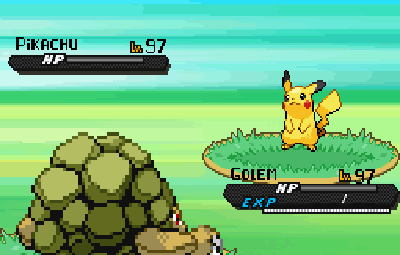
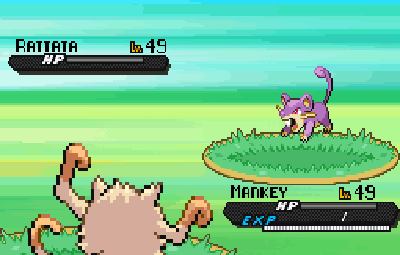
Reposition player bar to make it more readabel

diff --git a/pokemon/pokemon.py b/pokemon/pokemon.py
@@ -73,16 +73,16 @@ class pokemon:
         background.paste(image2, (148, 15), image2)
         background.paste(image1, (-20, int(200 - 96 * 1.75)), image1)
         background.paste(self.enemybar, (5, 23), self.enemybar)
-        background.paste(self.playerbar, (142, 95), self.playerbar)
+        background.paste(self.playerbar, (142, 105), self.playerbar)
         draw = ImageDraw.Draw(background)
         # Enemy pokmeon name
-        draw.text((10, 20), str.capitalize(pokemon2["name"]), font=self.font, fill=(0, 0, 0, 255))
+        draw.text((10, 21), str.capitalize(pokemon2["name"]), font=self.font, fill=(0, 0, 0, 255))
         # Player pokemon name
-        draw.text((147, 93), str.capitalize(pokemon1["name"]), font=self.font, fill=(0, 0, 0, 255))
+        draw.text((147, 103), str.capitalize(pokemon1["name"]), font=self.font, fill=(0, 0, 0, 255))
         # Enemy pokmeon level
         draw.text((93, 22), str(level), font=self.font, fill=(0, 0, 0, 255))
         # Player pokemon level
-        draw.text((226, 95), str(level), font=self.font, fill=(0, 0, 0, 255))
+        draw.text((226, 104), str(level), font=self.font, fill=(0, 0, 0, 255))
         background = background.resize(size=(400, 255))
         background.save("data/pokemon/compost.png", quality=100)
         await self.bot.send_file(context.message.channel, 'data/pokemon/compost.png')

diff --git a/pokemon/f.py b/pokemon/f.py
@@ -22,16 +22,16 @@ background = background.copy()
 background.paste(image2, (148, 15), image2)
 background.paste(image1, (-20, int(200 - 96 * 1.75)), image1)
 background.paste(enemybar, (5, 23), enemybar)
-background.paste(playerbar, (142, 95), playerbar)
+background.paste(playerbar, (142, 105), playerbar)
 draw = ImageDraw.Draw(background)
 #Enemy pokmeon name
-draw.text((10, 20), str.capitalize(pokemon2["name"]), font=font, fill=(0, 0, 0, 255))
+draw.text((10, 21), str.capitalize(pokemon2["name"]), font=font, fill=(0, 0, 0, 255))
 #Player pokemon name
-draw.text((147, 93), str.capitalize(pokemon1["name"]), font=font, fill=(0, 0, 0, 255))
+draw.text((147, 103), str.capitalize(pokemon1["name"]), font=font, fill=(0, 0, 0, 255))
 #Enemy pokmeon level
 draw.text((93, 22), str(level), font=font, fill=(0, 0, 0, 255))
 #Player pokemon level
-draw.text((226, 95), str(level), font=font, fill=(0, 0, 0, 255))
+draw.text((226, 104), str(level), font=font, fill=(0, 0, 0, 255))
 background = background.resize(size=(400, 255))
 background.save("data/compost.png", quality=100)
 
